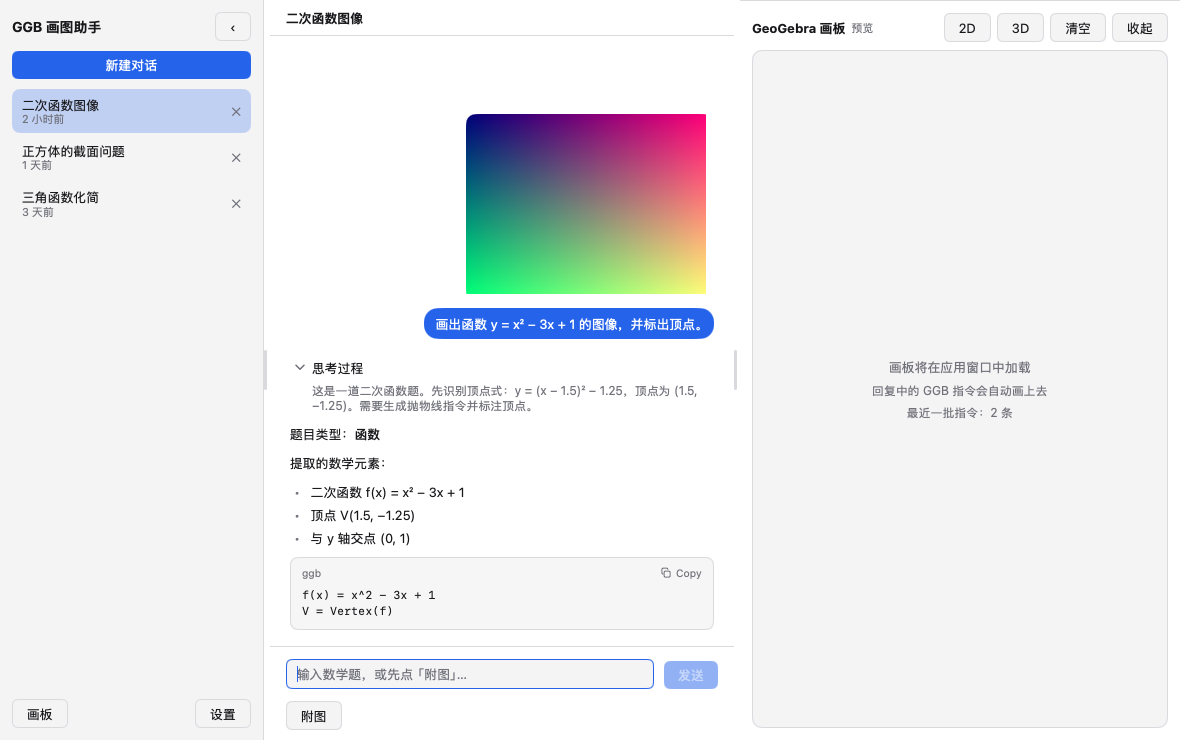
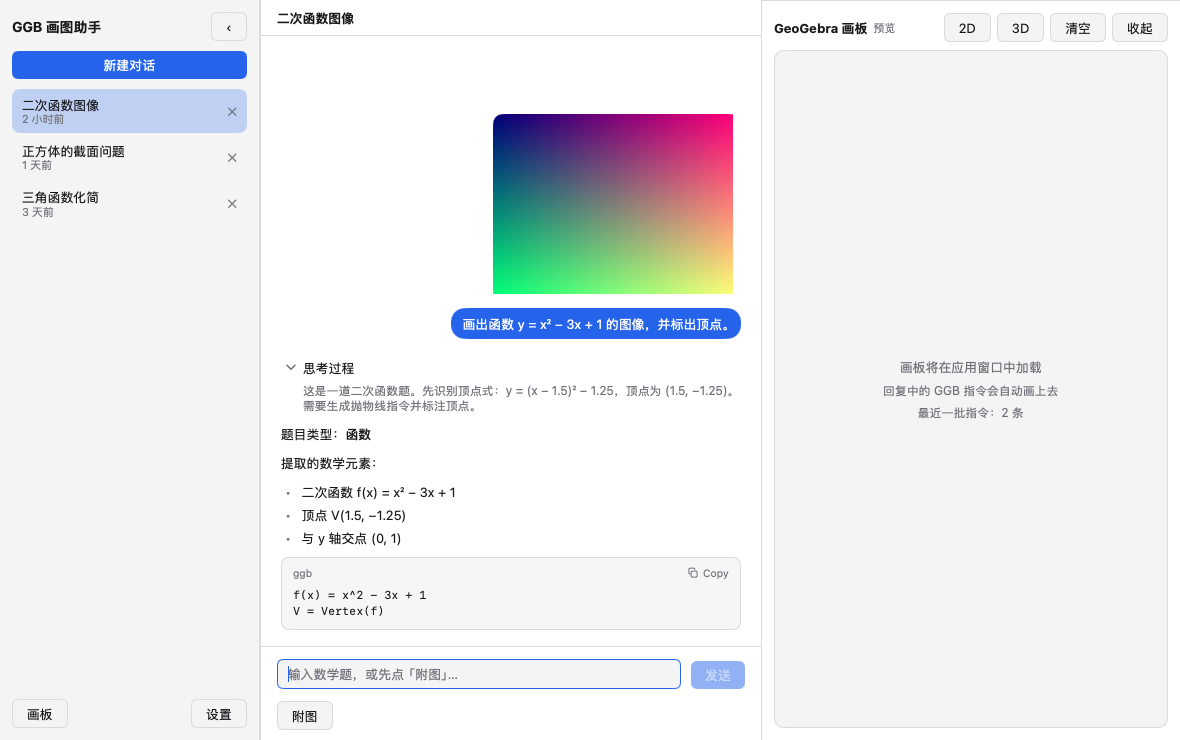
fix(desktop): image attach freeze and native ui.Split layout
Image attach froze/crashed for two reasons: Dialog.Open ran synchronously
inside the frame build (blocking the UI thread on the sheet), and
ui.DecodeBitmap created GPU resources on a background goroutine. Now the
dialog opens and the file reads/decodes off the main thread (pure CPU),
and the Bitmap is only constructed inside win.Update.

The hand-rolled Draggable splitters are gone: the layout is now two nested
native ui.Split panes (sidebar | chat | board), which give a
framework-managed divider with pointer and keyboard resizing.

diff --git a/desktop/view_model.go b/desktop/view_model.go
@@ -1,9 +1,11 @@
 package main
 
 import (
+	"bytes"
 	"encoding/base64"
 	"encoding/json"
 	"fmt"
+	"image"
 	"os"
 	"os/exec"
 	"path/filepath"
@@ -42,12 +44,10 @@ type app struct {
 	attachBusy   bool
 	attachErr    string
 
-	// 布局
+	// 布局（宽度由原生 ui.Split 管理）
 	sidebarWidth float32
-	sidebarDrag  ui.Point
 	showSidebar  bool
-	boardWidth   float32
-	boardDrag    ui.Point
+	chatWidth    float32
 	showBoard    bool
 	showSettings bool
 
@@ -68,8 +68,8 @@ func newApp() *app {
 	a.s = loadSettings()
 	a.showSidebar = true
 	a.showBoard = true
-	a.sidebarWidth = 264
-	a.boardWidth = 440
+	a.sidebarWidth = 260
+	a.chatWidth = 500
 	a.msgsOf = map[uint][]*uiMsg{}
 	if msgs, convs, err := loadHistory(); err == nil && len(convs) > 0 {
 		a.msgsOf = msgs
@@ -148,48 +148,62 @@ func (a *app) deleteConversation(id uint) {
 
 // ---- 附件 ----
 
-// pickImage 选本地图片：立即出预览，读取 base64 供发送（视觉模型）。
+// pickImage 选本地图片：文件对话框在后台 goroutine 打开（绝不能在 UI
+// 线程同步等 sheet），像素解码也在后台做纯 CPU 部分，Bitmap 只在主线程创建。
 func (a *app) pickImage() {
 	if a.win == nil || a.attachBusy {
 		return
 	}
-	paths, err := mygo.Dialog.Open(mygo.OpenDialogOptions{
-		Parent: a.win,
-		Title:  "选择题目图片",
-		Filters: []mygo.FileFilter{
-			{Name: "图片", Extensions: []string{"png", "jpg", "jpeg", "gif", "webp"}},
-		},
-	})
-	if err != nil || len(paths) == 0 {
-		return
-	}
-	a.attachPath = paths[0]
-	a.attachData = ""
-	a.attachBitmap = nil
-	a.attachErr = ""
 	a.attachBusy = true
-	a.attachSize = 0
-	path := paths[0]
 	go func() {
-		data, err := os.ReadFile(path)
-		if err == nil {
-			bm, decErr := ui.DecodeBitmap(data)
-			mime := mimeOf(path)
-			a.win.Update(func() {
-				a.attachBusy = false
-				if decErr != nil {
-					a.attachErr = "图片解码失败：" + decErr.Error()
-					return
-				}
-				a.attachBitmap = bm
-				a.attachSize = int64(len(data))
-				a.attachData = "data:" + mime + ";base64," + base64.StdEncoding.EncodeToString(data)
-			})
+		paths, err := mygo.Dialog.Open(mygo.OpenDialogOptions{
+			Parent: a.win,
+			Title:  "选择题目图片",
+			Filters: []mygo.FileFilter{
+				{Name: "图片", Extensions: []string{"png", "jpg", "jpeg", "gif", "webp"}},
+			},
+		})
+		if err != nil || len(paths) == 0 {
+			a.win.Update(func() { a.attachBusy = false })
 			return
+		}
+		path := paths[0]
+		a.win.Update(func() {
+			a.attachPath = path
+			a.attachData = ""
+			a.attachBitmap = nil
+			a.attachErr = ""
+			a.attachSize = 0
+		})
+
+		data, readErr := os.ReadFile(path)
+		mime := mimeOf(path)
+		var dataURL string
+		var img image.Image
+		var decErr error
+		if readErr == nil {
+			dataURL = "data:" + mime + ";base64," + base64.StdEncoding.EncodeToString(data)
+			img, _, decErr = image.Decode(bytes.NewReader(data)) // 纯 CPU，png/jpg/gif
 		}
 		a.win.Update(func() {
 			a.attachBusy = false
-			a.attachErr = err.Error()
+			if readErr != nil {
+				a.attachErr = readErr.Error()
+				return
+			}
+			if decErr != nil {
+				// webp 等原生不支持的格式：DecodeBitmap 兜底（必须在主线程）
+				bm, bmErr := ui.DecodeBitmap(data)
+				if bmErr != nil {
+					a.attachErr = "图片解码失败：" + bmErr.Error()
+					return
+				}
+				a.attachBitmap = bm
+			} else {
+				a.attachBitmap = ui.NewBitmap(img)
+			}
+			a.attachData = dataURL
+			a.attachSize = int64(len(data))
 		})
 	}()
 }

diff --git a/desktop/view.go b/desktop/view.go
@@ -12,65 +12,50 @@ import (
 func (a *app) view(c *ui.Context) {
 	t := c.Theme()
 
-	ui.Row(c).Fill().AlignItems(ui.Stretch).Children(func() {
-		if a.showSidebar {
-			a.sidebar(c, t)
-			a.splitterV(c, &a.sidebarWidth, &a.sidebarDrag, 180, 420)
-		}
-
-		// 主区：标题行 + 欢迎页/消息流 + 输入器
-		ui.Column(c).Grow(1).FillHeight().MinWidth(0).Children(func() {
-			a.chatHeader(c, t)
-			switch {
-			case len(a.currentMsgs()) == 0:
-				a.welcome(c, t)
-			default:
-				msgs := a.currentMsgs()
-				a.list.Key = func(i int) any { return msgs[i].id }
-				a.list.FollowEnd = true
-				ui.List(c, &a.list, len(msgs), func(i int) {
-					a.message(c, t, msgs[i])
-				}).Grow(1).Padding(16, 20).Gap(16).Justify(ui.End).Children(func() {
-					if len(msgs) == 0 {
-						ui.Text(c, "发一条消息开始对话").TextColor(t.TextMuted).Margin(ui.Auto)
-					}
-				})
-			}
-			a.composer(c, t)
-		})
-
+	// 三栏用原生 ui.Split：分割条由框架托管（可拖动、支持键盘），不再手搓
+	rest := func() {
 		if a.showBoard {
-			a.splitterV(c, &a.boardWidth, &a.boardDrag, 300, 680)
-			a.boardPanel(c, t)
+			ui.Split(c, &a.chatWidth,
+				func() { a.chatPane(c, t) },
+				func() { a.boardPanel(c, t) },
+			).Fill()
+		} else {
+			a.chatPane(c, t)
 		}
-	})
+	}
+	if a.showSidebar {
+		ui.Split(c, &a.sidebarWidth,
+			func() { a.sidebar(c, t) },
+			rest,
+		).Fill()
+	} else {
+		rest()
+	}
 
 	a.settingsModal(c, t)
 }
 
-// splitterV 是一条可拖动的竖直分割线：拖动改 base 宽度，松手收拢偏移。
-func (a *app) splitterV(c *ui.Context, base *float32, offset *ui.Point, min, max float32) {
-	var handle ui.Element
-	ui.Row(c).Width(6).FillHeight().Shrink(0).AlignItems(ui.Center).Children(func() {
-		handle = ui.Box(c).Size(3, 40).Radius(2).Background(c.Theme().Border)
+// chatPane 是标题行 + 欢迎页/消息流 + 输入器。
+func (a *app) chatPane(c *ui.Context, t *ui.Theme) {
+	ui.Column(c).FillHeight().MinWidth(0).Children(func() {
+		a.chatHeader(c, t)
+		switch {
+		case len(a.currentMsgs()) == 0:
+			a.welcome(c, t)
+		default:
+			msgs := a.currentMsgs()
+			a.list.Key = func(i int) any { return msgs[i].id }
+			a.list.FollowEnd = true
+			ui.List(c, &a.list, len(msgs), func(i int) {
+				a.message(c, t, msgs[i])
+			}).Grow(1).Padding(16, 20).Gap(16).Justify(ui.End).Children(func() {
+				if len(msgs) == 0 {
+					ui.Text(c, "发一条消息开始对话").TextColor(t.TextMuted).Margin(ui.Auto)
+				}
+			})
+		}
+		a.composer(c, t)
 	})
-	handle.Draggable(offset, ui.DraggableOptions{Axis: ui.Horizontal})
-	if handle.Dragging() {
-		*base = clampF(*base+offset.X, min, max)
-	} else if offset.X != 0 {
-		*base = clampF(*base+offset.X, min, max)
-		*offset = ui.Point{}
-	}
-}
-
-func clampF(v, lo, hi float32) float32 {
-	if v < lo {
-		return lo
-	}
-	if v > hi {
-		return hi
-	}
-	return v
 }
 
 // ---- 侧栏 ----
@@ -363,7 +348,7 @@ func (a *app) message(c *ui.Context, t *ui.Theme, m *uiMsg) {
 
 // boardPanel 是右侧的 GeoGebra 画板：顶部工具行 + webview（无窗口时显示占位）。
 func (a *app) boardPanel(c *ui.Context, t *ui.Theme) {
-	ui.Column(c).Width(a.boardWidth).FillHeight().Shrink(0).Gap(8).Padding(12).
+	ui.Column(c).FillHeight().Gap(8).Padding(12).
 		BorderWidth(1, 0, 0, 0).BorderColor(t.Border).Background(t.Background).Children(func() {
 		ui.Row(c).Gap(6).AlignItems(ui.Center).Children(func() {
 			ui.Text(c, "GeoGebra 画板").Bold().FontSize(13)
